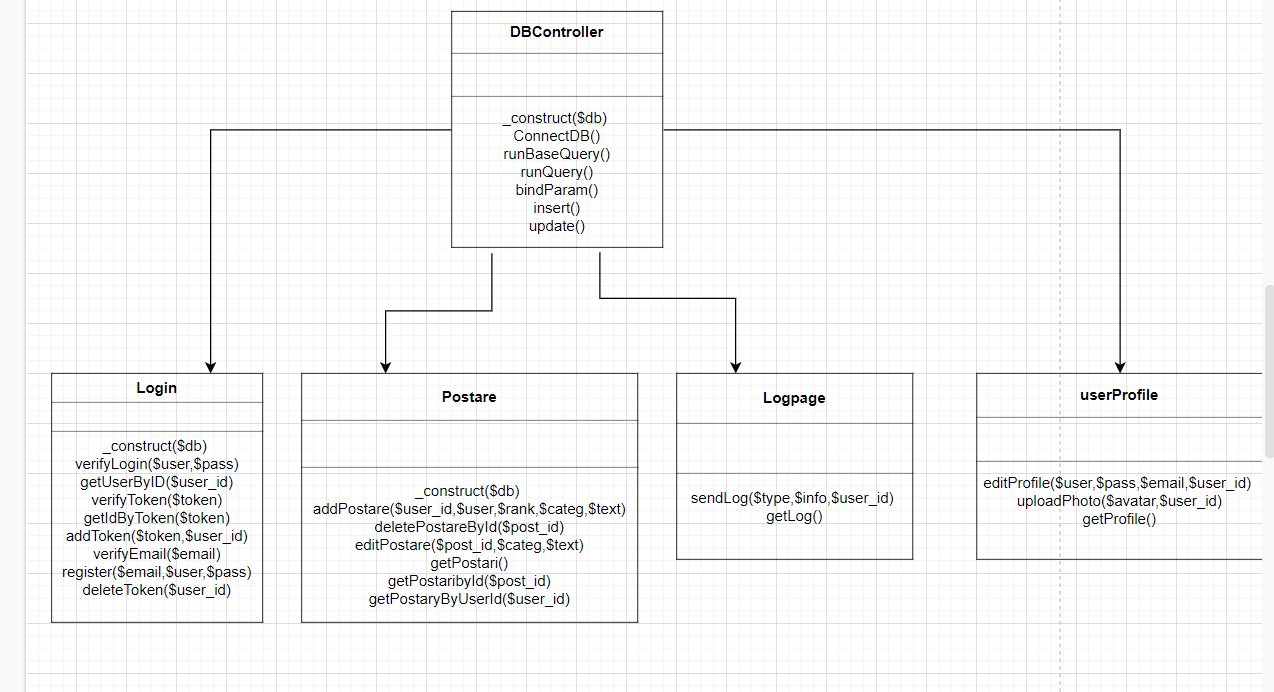
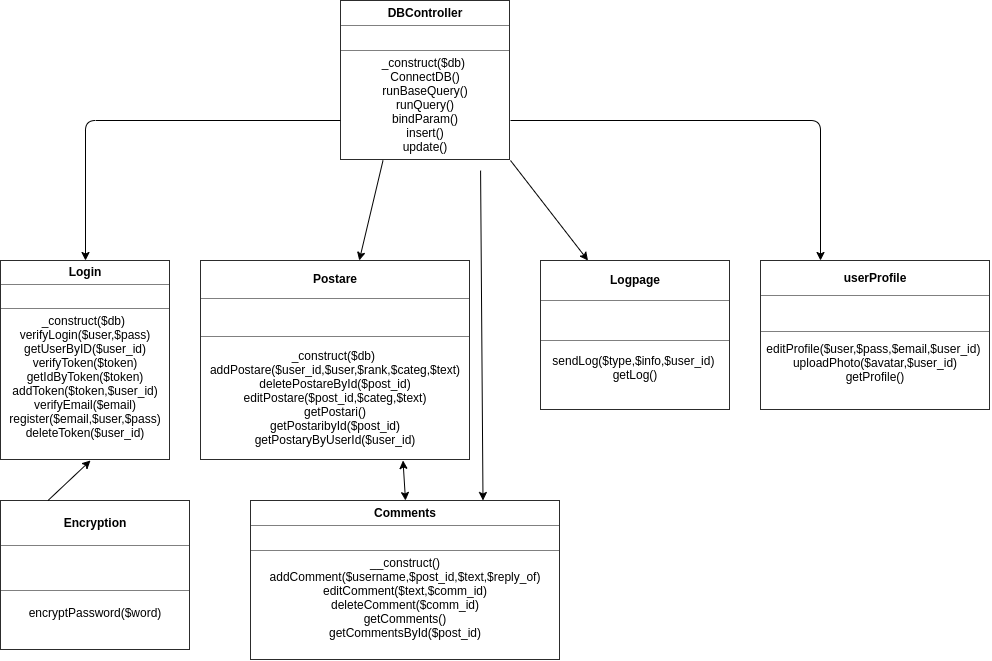
scholary updatat

diff --git a/arhitectura/instructiuniScholary.html b/arhitectura/instructiuniScholary.html
@@ -1,0 +1,132 @@
+<!DOCTYPE html>
+<html lang="en"> 
+<head>
+  <title>Scholarly</title>
+  <link rel="stylesheet" type="text/css" href="https://w3c.github.io/scholarly-html/css/scholarly.min.css"/>
+  <meta name="viewport" content="width=device-width, initial-scale=1.0">
+  <meta charset="utf-8"/>
+</head>
+<body>
+   <header>
+       <h1>PuAC Documentation</h1>
+   </header>
+    <section typeof="sa:Authors" class="main_container">
+        <h2>1. Team information</h2>
+        <ul>
+            <li>
+                <h3>Authors</h3>
+                <ul>
+                    <li>Vasilescu Andrei 2B4</li>
+                    <li>Ivan Alexandru 2X1</li>
+                    <li>Martinas Alex 2A2 </li>
+                </ul>
+            </li>
+            <li>
+                <h3>Faculty</h3>
+                <p>Faculty of Computer Science Iasi, Romania</p>
+            </li>
+        </ul>
+    </section>
+    <section typeof="sa:Abstract" class="main_container">
+        <h2>2. Abstract</h2>
+        <p>
+            Scholarly HTML is a domain-specific rich document format built entirely on open standards that enables the interoperable exchange of scholarly articles in a manner that is compatible with off-the-shelf browsers. This document describes how Scholarly HTML works and how it is encoded.
+        </p>
+    </section>
+    <section typeof="sa:Introduction" class="main_container">
+        <h2>3. Project </h2>
+        <ul>
+            <li>
+                <h3> Title </h3>
+                <p>PuAC (Purchase Advising Council)</p>
+            </li>
+            <li>
+                <h3> Description</h3>
+                <p>
+                    In contextul achizitionarii unui produs (casa, autoturism, laptop), se doreste crearea unui instrument Web care sa ajute un utilizator (cumparatorul) in luarea unei decizii prin consultarea unui grup de apropriati (familie/prieteni) - sfatuitorii. 
+                    Cumparatorul va putea crea o "achizitie" in care va descrie ceea ce doreste sa cumpere (de pilda, un apartament cu 2 camere pentru inchiriere). 
+                    Pe masura ce gaseste produse (apartamente) interesante, le va adauga in aplicatie. 
+                    Sfatuitorii vor putea oferi feedback (minimal, comentarii si o nota). 
+                    Pe masura ce sunt adaugate mai multe variante, sfatuitorii le vor putea ordona, in functie de preferinte. 
+                    Cumparatorul va putea consulta situatia curenta (clasametul general, si cel al fiecarui sfatuitor) si va putea comenta. 
+                    Un cumparator poate avea mai multe achizitii active. Cumparatorul va putea adauga sfatuitori. 
+                    Aplicatia va genera un URL unic (greu de ghicit) care ii va putea permite sfatuitorului sa acceseze actiunile sale fara a avea un cont de utilizator. 
+                    Se vor oferi informatii privind jurnalul tuturor activitatilor desfasurate de fiecare categorie de utilizatori (cumparatori, sfatuitori), exportate si in formatele CSV si PDF.
+                </p>
+            </li>
+        </ul>
+    
+        
+    <section typeof="sa:HowToUse" class="main_container">
+        <h2>4. Mod de Utilizare </h2>
+        <ul>
+            <li>
+                <h3> Login </h3>
+                <p>
+                    Aplicatia cand se deschide este intampinata de interfata de login.
+                    Daca un utilizator are cont deja creat acesta isi introduce date si este redirectionat catre pagina de home.
+                    Daca acesta nu are cont este atentionat si este rugat sa apese pe butonul pentru register.
+                    Date necesare creearii unui cont sunt email-ul, un username si o parola.
+                </p>
+            </li>
+            <li>
+                <h3> Home</h3>
+                <p>
+                    In pagina de pornire utilizatorul are acces la aproape toate funtionalitatile site-ului.
+                    Daca doreste sa publice un anunt pur si simplu trebuie sa introduca textul anuntului si sa selecteze categoria.
+                    Bineinteles dupa ce a pus un anunt daca a sesizat ca nu a folosit termenii corecti sau a omis un detaliu, acesta poate sa editeze postarea.
+                    Stergerea postarii se va face numai la vointa utilizatorului.
+                </p>
+            </li>
+
+            <li>
+                <h3> Sfatuitori</h3>
+                <p>
+                    In aceasta pagina utilizatorul poate vedea toate postarile celorlalti unde poate citi acel topic respectiv sa comenteze daca acesta se simte in masura sa o faca.
+                </p>
+            </li>
+
+            <li>
+                <h3> Profile</h3>
+                <p>
+                    In acesta sectiune a aplicatiei utilizatorul isi poate schimba date si isi mai poate schimba si imaginea contului.
+                </p>
+            </li>
+
+            <li>
+                <h3> Admin</h3>
+                <p>
+                   La sectiunea admin, daca un utlizator are dreptul la acest lucru, poate exporta in format csv sau pdf istoricul anunturilor incluzand data de adaugare, modificare, stergere, updatarea profilului etc.
+                </p>
+            </li>
+        </ul>
+    </section>
+    <section typeof="sa:Ajutor" class="main_container">
+        <h2>5. External help</h2>
+        <ul>
+            <li>
+                <a href="http://localhost/phpmyadmin">PHP my admin</a> pentru hosting-ul bazei de date.
+            </li>
+            <li>
+                <a href="https://discord.com/">Discord</a> pentru interctiunea echipei.
+            </li>
+            <li>
+                <a href="https://github.com/AzdHyperman/WebProject">Github</a> link-ul catre pagina de Git.
+            </li>
+            <li>
+                <a href="https://mycolor.space/gradient">Gradient</a> un tool folosit pentru colorizarea site-ului.
+            </li>
+            <li>
+                <a href="https://colorhunt.co/palette/17117">Paleta_culoare_1</a> una din paleta de culori folosite.
+            </li>
+            <li>
+                <a href="https://colorhunt.co/palette/2763">Paleta_culoare_2</a> una din paleta de culori folosite.
+            </li>
+            <li>
+                <a href="https://fonts.google.com/specimen/Kiwi+Maru?preview.text_type=custom">Font_utilizat</a> un font utilizat la proiect.
+            </li>
+        </ul>
+    </section>
+    
+</body>
+</html>

diff --git a/arhitectura/scholary.html b/arhitectura/scholary.html
@@ -54,16 +54,6 @@
                     Se vor oferi informatii privind jurnalul tuturor activitatilor desfasurate de fiecare categorie de utilizatori (cumparatori, sfatuitori), exportate si in formatele CSV si PDF.
                 </p>
             </li>
-            <li>
-                <h3>Mod de Utilizare</h3>
-                <p>
-                    Aveti la dispozitie pagina de login.<br>
-                    Dupa ce v-ati autentificat vei avea la dispozitie formularul pentru adaugat achizitii.<br>
-                    Mai jos aveti achizitiile clientilor ce vor fi afisate,la care se asteapta raspuns.<br>
-                    Raspunsurile sunt date de sfatuitori dar vor putea comenta si alti utilizatori care iti vad postarea.(Nu e implementat inca)<br>
-
-                </p>
-            </li>
         </ul>
     </section>
     <section typeof="sa:Structure" class="main_container">
@@ -128,25 +118,41 @@
 
                 </ul>
             </li>
-            <li>
-                <h3> Backend</h3>
-                <p> Backend-ul are in componenta sa urmatoarele functii.
-                    DBController: pentru a apela functiile CRUD
-                    Elementele legate de el:<br>
-                        Login:toate functiile legate de Register Login Logout <br>
-                        Logpage:toate functiile legate in trimiterea unor raporturi.<br>
-                        userProfile:toate functiile legate de editarea unui profil de utilizator a utilizatorului curent.<br>
-                        Postare: toate functiile legate pentru a trimite edita si sterge postari/achizitii.<br>
-                </p>
-            </li>
+
             <li>
                 <h3>Database</h3>
                 <p> din database-ul puac avem urmatoarele tabele:<br>
                     users: user_id,avatar,username,email,password,admin<br>
                     tokens:user_id,token<br>
                     postari:user_id,post_id,categorie,text,data<br>
-                    logpage:type,info,data,user_id<br> </p>
+                    logpage:type,info,data,user_id<br> 
+                    comments:comm_id,username,post_id,text,reply_of,date<br> 
+                </p>
             </li>
+
+            <li>
+                <h3> Backend</h3>
+                <p> Backend-ul are in componenta sa urmatoarele functii.
+                    DBController: pentru a apela functiile CRUD
+                    Elementele legate de el:<br>
+                        Login:toate functiile legate de Register Login Logout. <br>
+                        Encryption:functiile de encriptie pentru parole.<br>
+                        Logpage:toate functiile legate in trimiterea unor raporturi.<br>
+                        userProfile:toate functiile legate de editarea unui profil de utilizator a utilizatorului curent.<br>
+                        Postare: toate functiile legate pentru a trimite edita si sterge postari/achizitii.<br>
+                        Comentarii:toate functiile legate de sistemul de comentarii al anunturilor.<br>
+                        ExportCSV:functia de export pentru raportul CSV.<br>
+                        CSV Example:<br>
+                        <img src="img/CSVEx.png" alt="csvexample" width="700px">
+                        <br>
+                </p>
+                </li>
+                <h3> JavaScript</h3>
+                <p>
+                    JavaScript pe partea de Backend a fost folosita pentru a posta anunturile folosit structura AJAX.
+                </p>
+            </li>
+            
 
                 
     </section>
